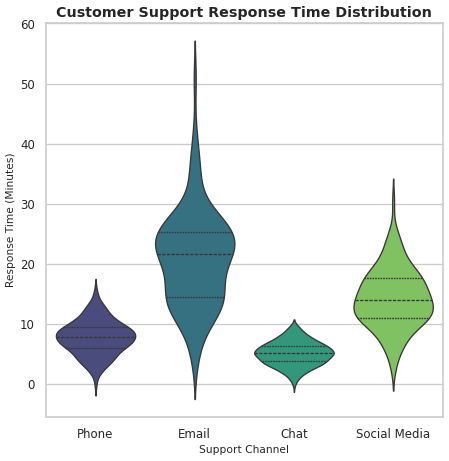
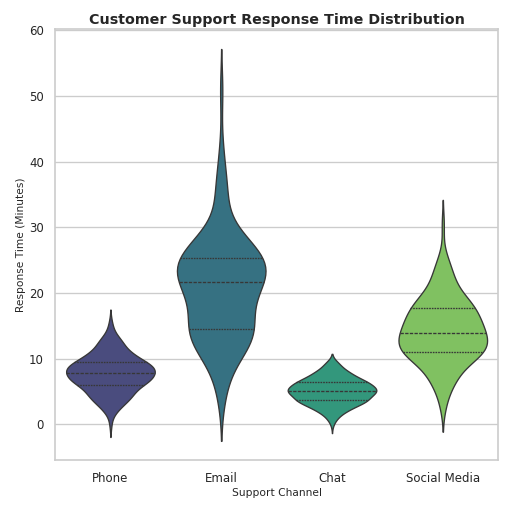
Initial commit: Add Seaborn analysis script and generated chart 1

Changed region(s): [[0.0, 0.0, 0.9978, 1.0], [0.4989, 0.4859, 0.5301, 0.6377], [0.343, 0.4859, 0.3742, 0.5163]]

diff --git a/chart.py b/chart.py
@@ -51,5 +51,8 @@ ax.set_title('Customer Support Response Time Distribution', fontsize=16, weight=
 ax.set_xlabel('Support Channel', fontsize=12)
 ax.set_ylabel('Response Time (Minutes)', fontsize=12)
 
+# Adjust layout to prevent labels from being cut off
+plt.tight_layout()
+
 # Save chart: Use plt.savefig() with exactly 512x512 pixel dimensions
-plt.savefig('chart.png', dpi=64, bbox_inches='tight')
+plt.savefig('chart.png', dpi=64)
